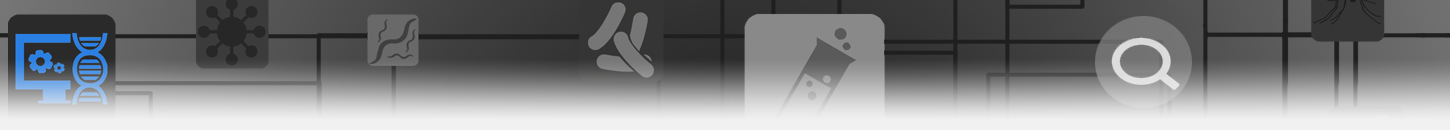
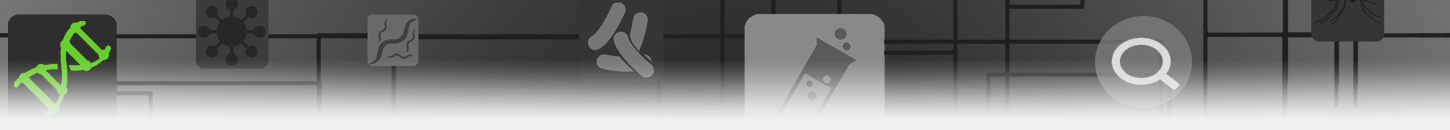
MyVariant-related adaptations to theme

Changed region(s): [[0.0, 0.1538, 0.0931, 0.8308]]

diff --git a/assets/js/index.js b/assets/js/index.js
@@ -1,160 +1,12 @@
 /**
  * Main JS file for Portfolio behaviours
  */
- //constrcut the article html
-function construct_html(href, title, describe,tags) {
-    url1 = '<article class="post tag-sync_sulab post__wrapper" data-cols="4">' + '<div class="post__wrapper_helper post__wrapper_helper--notloaded el__transition post__wrapper_helper--hover">' + '<div class="post__preview el__transition">' + '<header class="post__header">' + '<h2 class="post__title">' + '<a href='
 
-    url2 = ' class="post__link post__title_link"><span>'
-
-    url3 = '</span></a></h2></header><p class="post__excerpt"><a href='
-    url4 = ' class="post__link post__readmore">'
-
-    url5 = '</a></p></div><footer class="post__meta"><ul class="post__tags">'
-    url6 = '</ul></footer></div></article>'
-    html = url1 + href + url2 + title + url3 + href + url4 + describe + url5
-    for(var i=0; i < tags.length; i++) {
-      if (tags[i] != 'sync_sulab') {    // skip internal sync_sulab tag
-        html += construct_tag(tags[i]);
-      }
-    };
-    html += url6;
-    return html
-}
-//construct the html for the tag part
-function construct_tag(tag_name){
-  render_tag = '<li class="post__tag"><a class="post__link post__tag_link">' + tag_name + '</a> </li>'
-  return render_tag
-}
 /*globals jQuery, document */
 (function ($) {
     "use strict";
 
     $(document).ready(function(){
-        // display 4 articels at a time given the page number
-        function show_post_by_page(page, data){
-            $.each(data, function(index, item){
-                if (index >= page*4-4 && index < page*4){
-                    var href = item['link'];
-                    var title = item['title'];
-                    var content = item['content'];
-                    var describe = content.replace(/(<([^>]+)>)/ig,"").slice(0,121) + '...';
-                    var tags = item['categories'];
-                    //console.log(tags);
-                    $("#news").append(construct_html(href, title, describe, tags))
-                }
-            })
-        }
-        //add fancy transition effects to the articles when loading
-        function add_transition(){
-            var blocks = [];
-            $('.post__wrapper_helper--notloaded').each(function(i, block) {
-              blocks.push(block);
-            });
-
-            var add_class = function(block, class_name, delay) {
-              setTimeout(function() {
-                $(block).addClass(class_name);
-              }, delay);
-            };
-
-            for(var i = 0; i < blocks.length; i++) {
-              add_class(blocks[i], 'post__wrapper_helper--animated', i * 200);
-            }
-        }
-        /*given an array of articles, and a specific tag to filter
-          return an array of articles containing the tag
-        */
-        function filter_post_by_tag(posts, tag) {
-          var results = [];
-          $.each(posts, function(index, item){
-            if (item['categories'].indexOf(tag) != -1){
-              results.push(item);
-            }
-          });
-          return results
-        }
-        // deal with issues when user click the tag
-        function click_tag(){
-          $('.post__tag_link').click(function(){
-            /*
-            When clicking on one of the tags, only tag related articles will be shown
-            remove unrelevant stuff, e.g. header part, exisiting articles, etc.
-            */
-            $(".main__header, article, .rslides_container, .whatsnew__div").remove();
-            $("#newer").hide();
-            tag_doc = filter_post_by_tag(mygene_doc, this.innerHTML);
-            //reset the current page to 1
-            current_page = 1;
-            // calculate the number of relevant articles, and insert an h2 title on top of articles
-            $(".menu").after('<h2 class="main__header">Tag archive: <span class="main__header--tagname">' + this.innerHTML + ' ' + '(' + tag_doc.length + ')</span></h2>')
-            //recalculate the total number of pages
-            page_num = Math.ceil(tag_doc.length/4);
-            $('#page').text('page ' + current_page + ' of ' + page_num);
-            //If only one page exists, then hide the "older" button
-            if (page_num == 1) {
-              $("#older").hide();
-            } else {
-              $("#older").show();
-            }
-            show_post_by_page(current_page, tag_doc);
-            add_transition();
-            //self call function
-            click_tag();
-          })
-        }
-        var mygene_doc;
-        var tag_doc;
-        var page_num;
-        //rss2json to get the articles
-        var current_page = 1;
-        //initialize
-        $.getJSON(feed_rss2json_url, {
-            format: 'json'
-         }).done(function(data){
-            mygene_doc = data.items;
-            page_num = Math.ceil(mygene_doc.length/4);
-            $('#page').text('page ' + current_page + ' of ' + page_num);
-            $("#newer").hide();
-            if (page_num == 1) {
-              $("#older").hide();
-            } else {
-              $("#older").show();
-            }
-            show_post_by_page(current_page, mygene_doc);
-            add_transition();
-            click_tag();
-            });
-         //when clicking on the old button, remove existing articles, and display older articles
-        $("#older").click(function(){
-            $("article").remove();
-            current_page += 1;
-            if (current_page == page_num){
-                $("#older").hide();
-            };
-            $("#newer").show();
-            $("#page").text('page ' + current_page + ' of ' + page_num);
-            show_post_by_page(current_page, mygene_doc);
-            add_transition();
-            click_tag();
-        });
-        //when clicking on the newer button, remove existing articles, and display newer ones
-        $("#newer").click(function(){
-            $("article").remove();
-            current_page -= 1;
-            $("#older").show();
-            if (current_page == 1){
-                $("#newer").hide();
-            }
-            else{
-                $("#newer").show();
-            }
-            $("#page").text('page ' + current_page + ' of ' + page_num);
-            show_post_by_page(current_page, mygene_doc);
-            add_transition();
-            click_tag();
-        });
-
         // move main image to header
         if(
         	$('.post-template').length > 0 || 
@@ -175,7 +27,6 @@ function construct_tag(tag_name){
         	$(document.body).hasClass('author-template')
         ) {
           // get the post images
-        /*
           var blocks = [];
           
           $('.post__wrapper_helper--notloaded').each(function(i, block) {
@@ -191,8 +42,7 @@ function construct_tag(tag_name){
           for(var i = 0; i < blocks.length; i++) {
           	add_class(blocks[i], 'post__wrapper_helper--animated', i * 200);
           }
-          */
-          /*
+          
           $('.post__wrapper_helper--notloaded').each(function(i, wrapper) {
             wrapper = $(wrapper);
             var img = wrapper.find('.post__image_to_load')[0];
@@ -234,7 +84,6 @@ function construct_tag(tag_name){
               wrapper.addClass('post__wrapper_helper--hover');
             }
           });
-          */
         }
         // fit videos
         $(".post-header").fitVids();
@@ -250,5 +99,3 @@ function construct_tag(tag_name){
         });
     });
 }(jQuery));
-
-

diff --git a/assets/css/mygene.css b/assets/css/mygene.css
@@ -74,7 +74,7 @@ button#expand_frame {
     padding: none;
     text-align:center;
     font-size:20px;
-    text-shadow: 0 0 3px #4082e2;
+    text-shadow: 0 0 3px #40B307;
 }
 
 
@@ -194,17 +194,17 @@ Main site
 
 /*button css from http://css3buttongenerator.com/ */
 #button-wrap-inner {
-    padding: 0px 0px 50px 0px;
+    padding: 0px 0px 0px 0px;
     text-align: center;
 }
 
 .learnmore__btn {
-  background: #4082e2;
-  background-image: -webkit-linear-gradient(top, #4082e2, #3366cc);
-  background-image: -moz-linear-gradient(top, #4082e2, #3366cc);
-  background-image: -ms-linear-gradient(top, #4082e2, #3366cc);
-  background-image: -o-linear-gradient(top, #4082e2, #3366cc);
-  background-image: linear-gradient(to bottom, #4082e2, #3366cc);
+  background: #40B307;
+  background-image: -webkit-linear-gradient(top, #40B307, #67CF2E);
+  background-image: -moz-linear-gradient(top, #40B307, #67CF2E);
+  background-image: -ms-linear-gradient(top, #40B307, #67CF2E);
+  background-image: -o-linear-gradient(top, #40B307, #67CF2E);
+  background-image: linear-gradient(to bottom, #40B307, #67CF2E);
   -webkit-border-radius: 28;
   -moz-border-radius: 28;
   border-radius: 28px;
@@ -216,12 +216,12 @@ Main site
 }
 
 .learnmore__btn:hover {
-  background: #5599e8;
-  background-image: -webkit-linear-gradient(top, #5599e8, #4082e2);
-  background-image: -moz-linear-gradient(top, #5599e8, #4082e2);
-  background-image: -ms-linear-gradient(top, #5599e8, #4082e2);
-  background-image: -o-linear-gradient(top, #5599e8, #4082e2);
-  background-image: linear-gradient(to bottom, #5599e8, #4082e2);
+  background: #67CF2E;
+  background-image: -webkit-linear-gradient(top, #67CF2E, #40B307);
+  background-image: -moz-linear-gradient(top, #67CF2E, #40B307);
+  background-image: -ms-linear-gradient(top, #67CF2E, #40B307);
+  background-image: -o-linear-gradient(top, #67CF2E, #40B307);
+  background-image: linear-gradient(to bottom, #67CF2E, #40B307);
   text-decoration: none;
 }
 

diff --git a/assets/css/main.css b/assets/css/main.css
@@ -42,7 +42,7 @@ body {
 	box-sizing: border-box;
 }
 a {
-	color: #4082e2;
+	color: #40B307;
 	text-decoration: none;
 }
 a:active,
@@ -158,7 +158,7 @@ main {
 .logo__link:active,
 .logo__link:focus,
 .logo__link:hover {
-	color: #4082e2;
+	color: #40B307;
 }
 
 /*---------------------------------
@@ -183,13 +183,13 @@ main {
 .menu__item:active,
 .menu__item:focus,
 .menu__item:hover {
-	color: #4082e2;
+	color: #40B307;
 }
 
 .menu__item--active {
-	border-color: #4082e2;
+	border-color: #40B307;
 	border-radius: 2px;
-	color: #4082e2;
+	color: #40B307;
 }
 
 /*---------------------------------
@@ -240,7 +240,7 @@ main {
 }
 
 .social__icon:hover:before {
-	color: #4082e2;
+	color: #40B307;
 }
 
 .social__icon:before {
@@ -276,7 +276,7 @@ main {
 .pagination__item--link:active,
 .pagination__item--link:focus,
 .pagination__item--link:hover {
-	color: #4082e2;
+	color: #40B307;
 }
 .pagination__item--older {
 	padding: 0 25px 0 0;
@@ -434,7 +434,7 @@ main {
 .post__link:active,
 .post__link:focus,
 .post__link:hover {
-	color: #4082e2;
+	color: #40B307;
 }
 
 .post__date {
@@ -481,7 +481,7 @@ main {
 
 .post__meta:before {
 	bottom: 0;
-	color: #4082e2;
+	color: #40B307;
 	content: "i";
 	display: block;
 	font-size: 24px;
@@ -746,8 +746,8 @@ ul {
 	}
 
 	.menu__item--active {
-		background: #4082e2;
-		border-color: #4082e2;
+		background: #40B307;
+		border-color: #40B307;
 		color: #fff;
 	}
 
